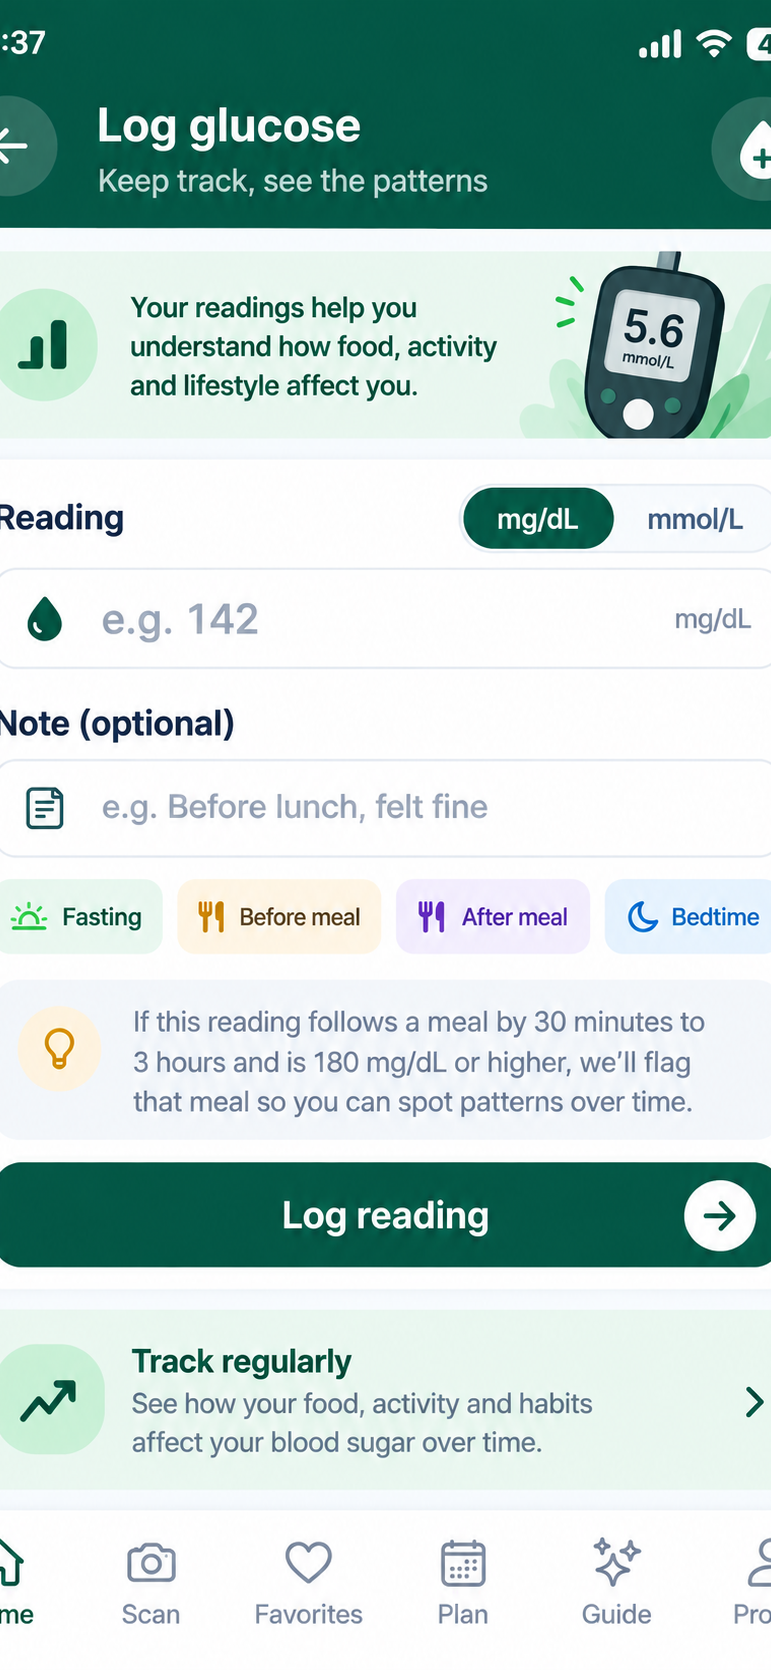
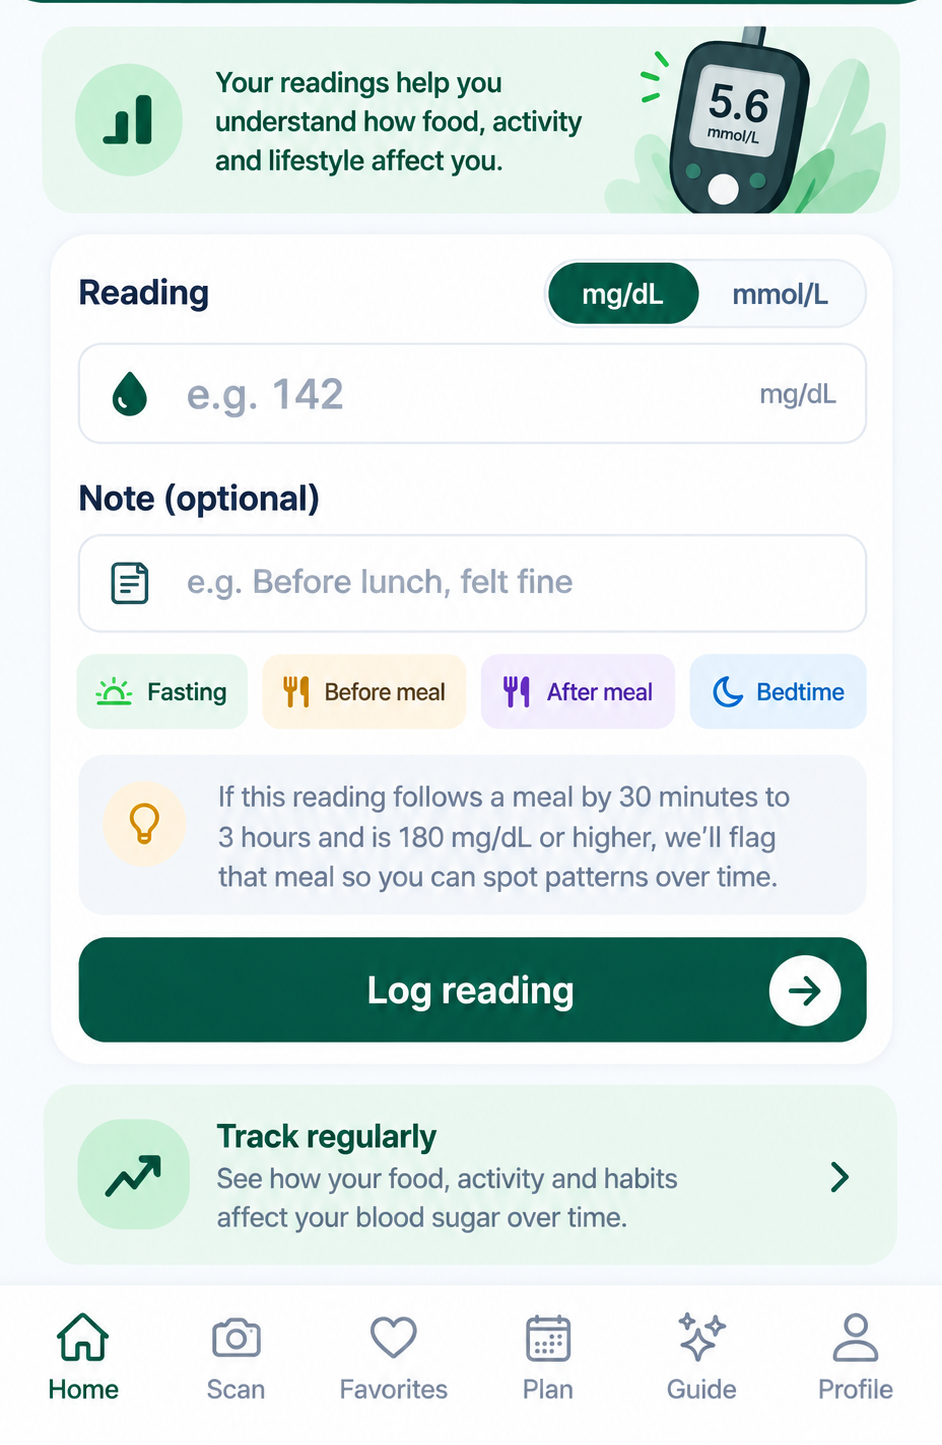
Crop out status bar/back button from feature screenshots, use contain fit
The 3 screenshots (food-scan-verdict, carb-goal, glucose-logging) still
showed the in-app header with its back button and status bar, which
looked out of place in a marketing feature card. Cropped that header
off each image, and switched the feature card's screen from
object-cover to object-contain (with a matching neutral background)
so the browser no longer force-crops the sides to fill the tall phone
bezel - the previous fix was cutting into the bottom tab bar labels.

diff --git a/landing-page/components/Features.js b/landing-page/components/Features.js
@@ -207,13 +207,13 @@ export default function Features() {
             {/* Outer frame / bezel */}
             <div className="absolute inset-0 rounded-[2.5rem] bg-white shadow-2xl ring-1 ring-black/10"></div>
             {/* Screen */}
-            <div className="absolute inset-[10px] rounded-[2rem] overflow-hidden bg-black ring-1 ring-black/5">
+            <div className="absolute inset-[10px] rounded-[2rem] overflow-hidden bg-[#F7FBF9] ring-1 ring-black/5">
               <Image
                 src={active.image}
                 alt={active.alt}
                 fill
                 sizes="260px"
-                className="object-cover"
+                className="object-contain"
               />
             </div>
             {/* Dynamic Island notch */}
